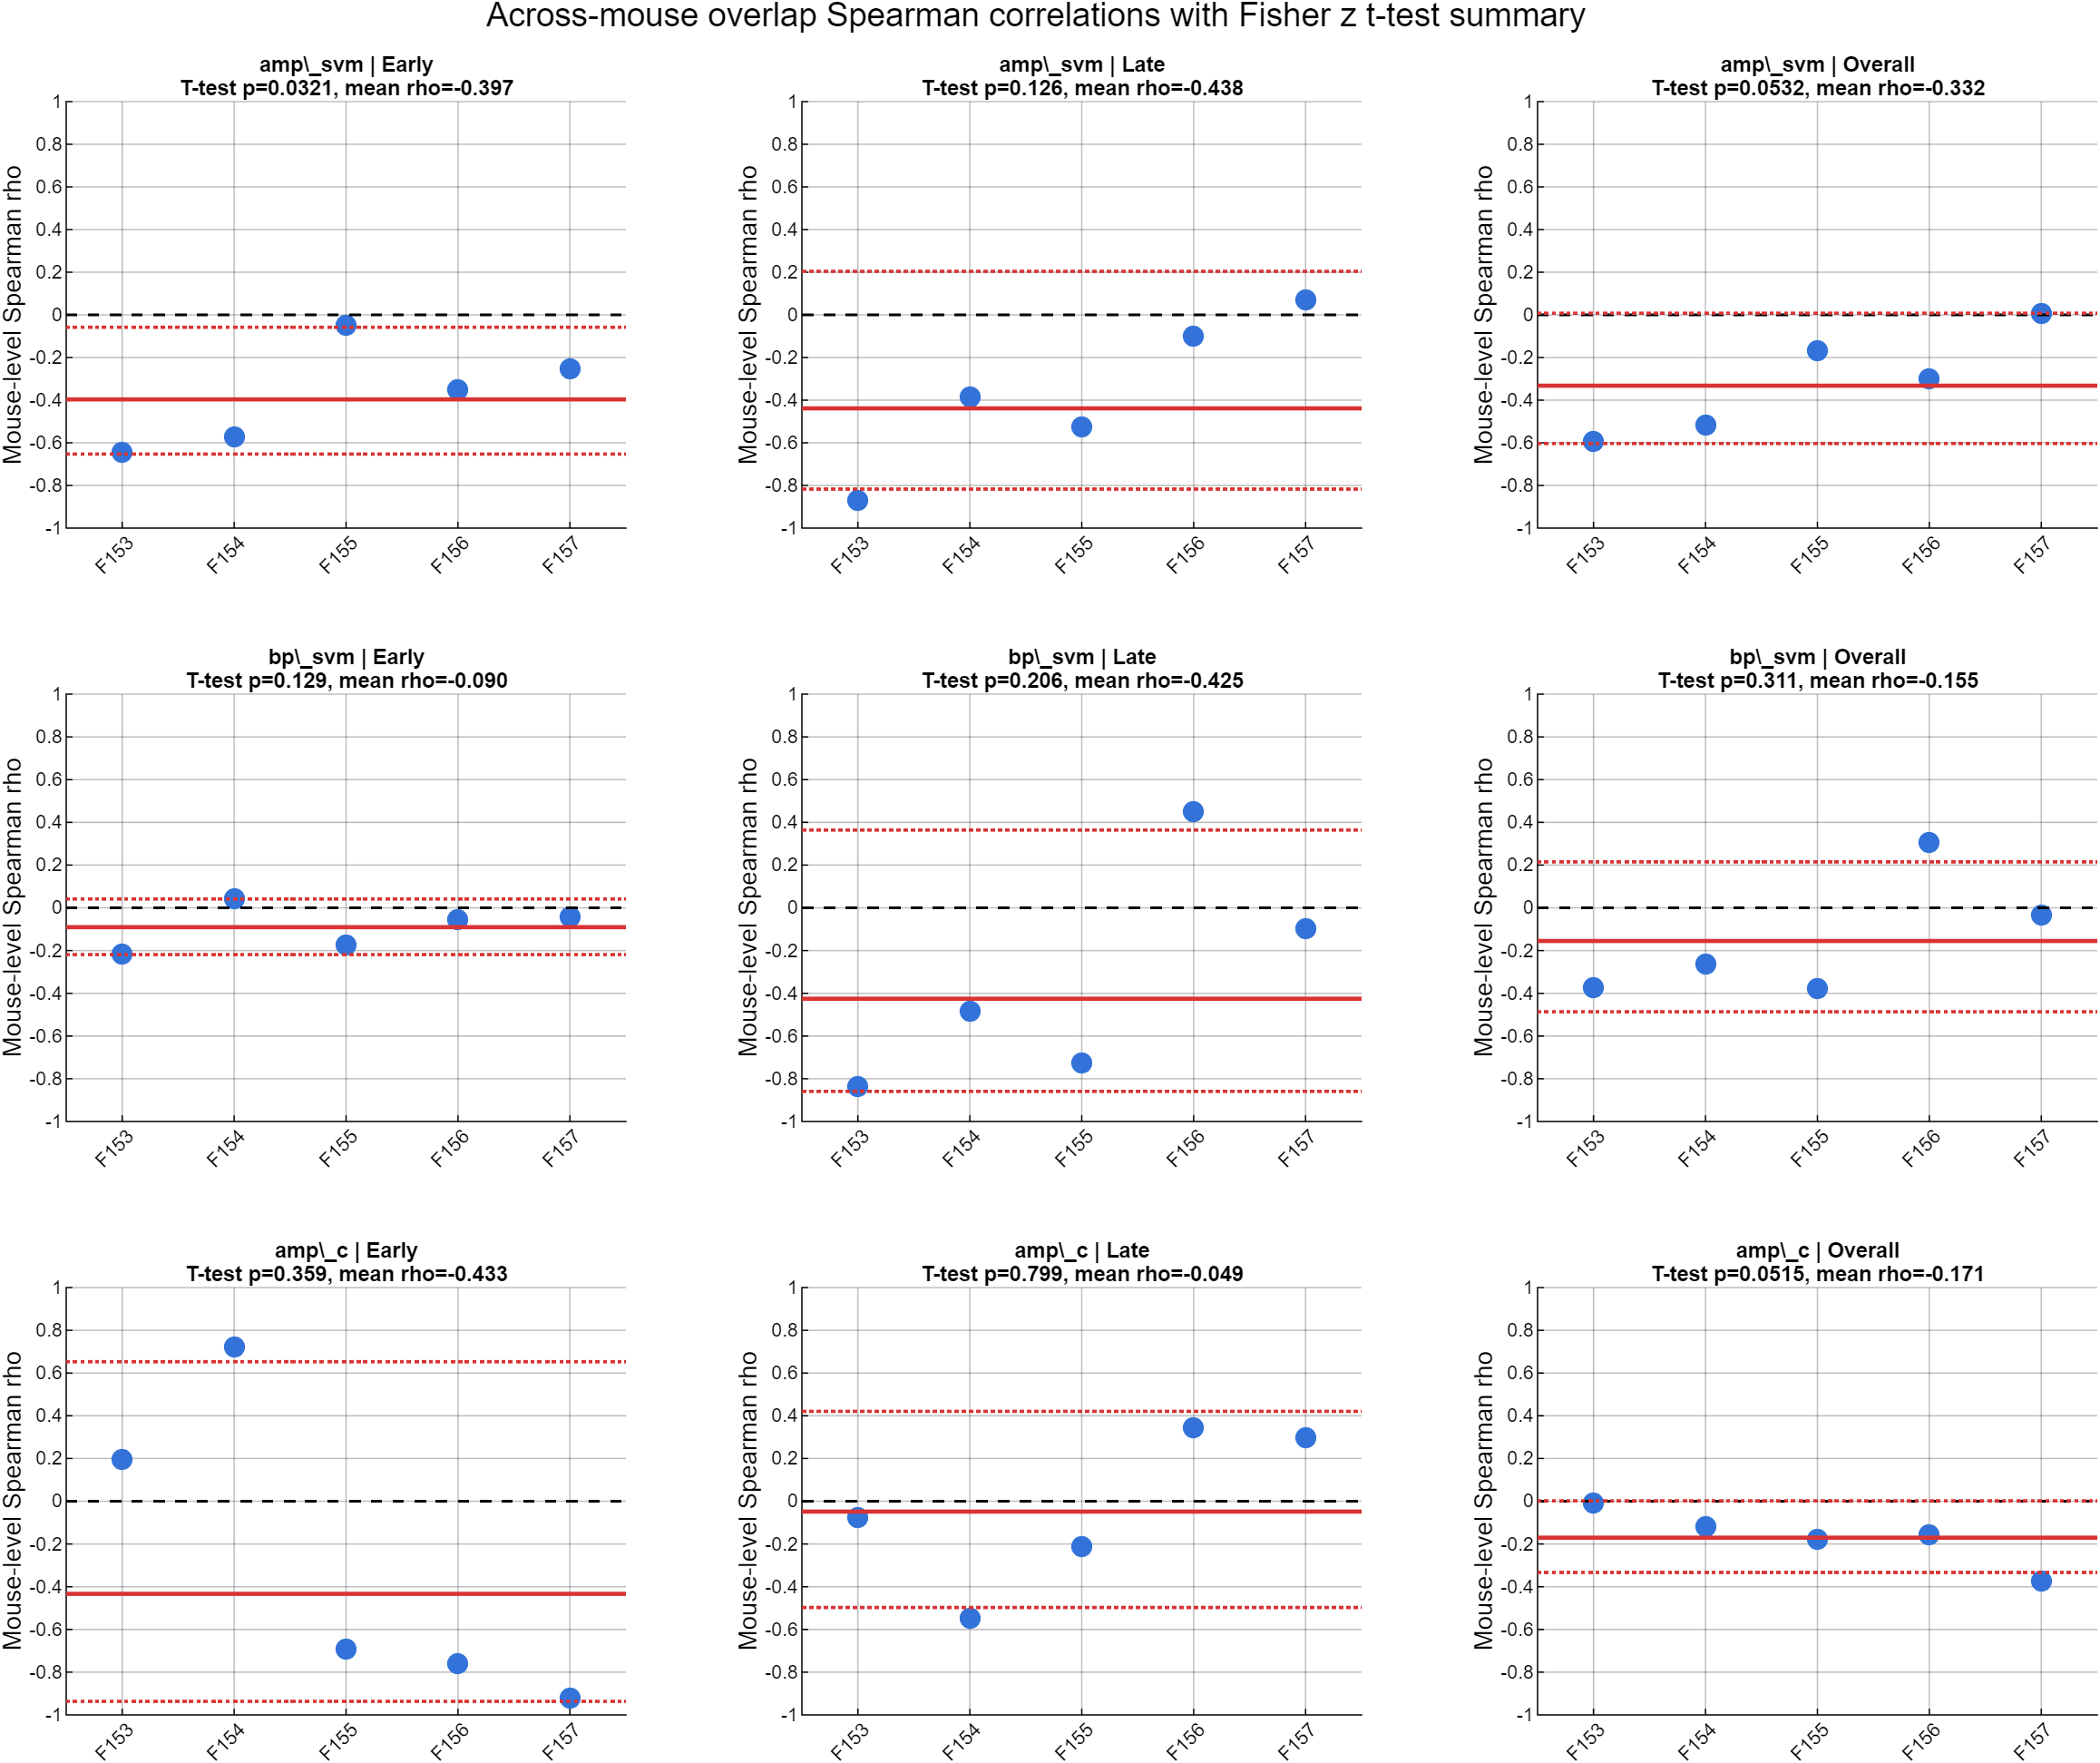
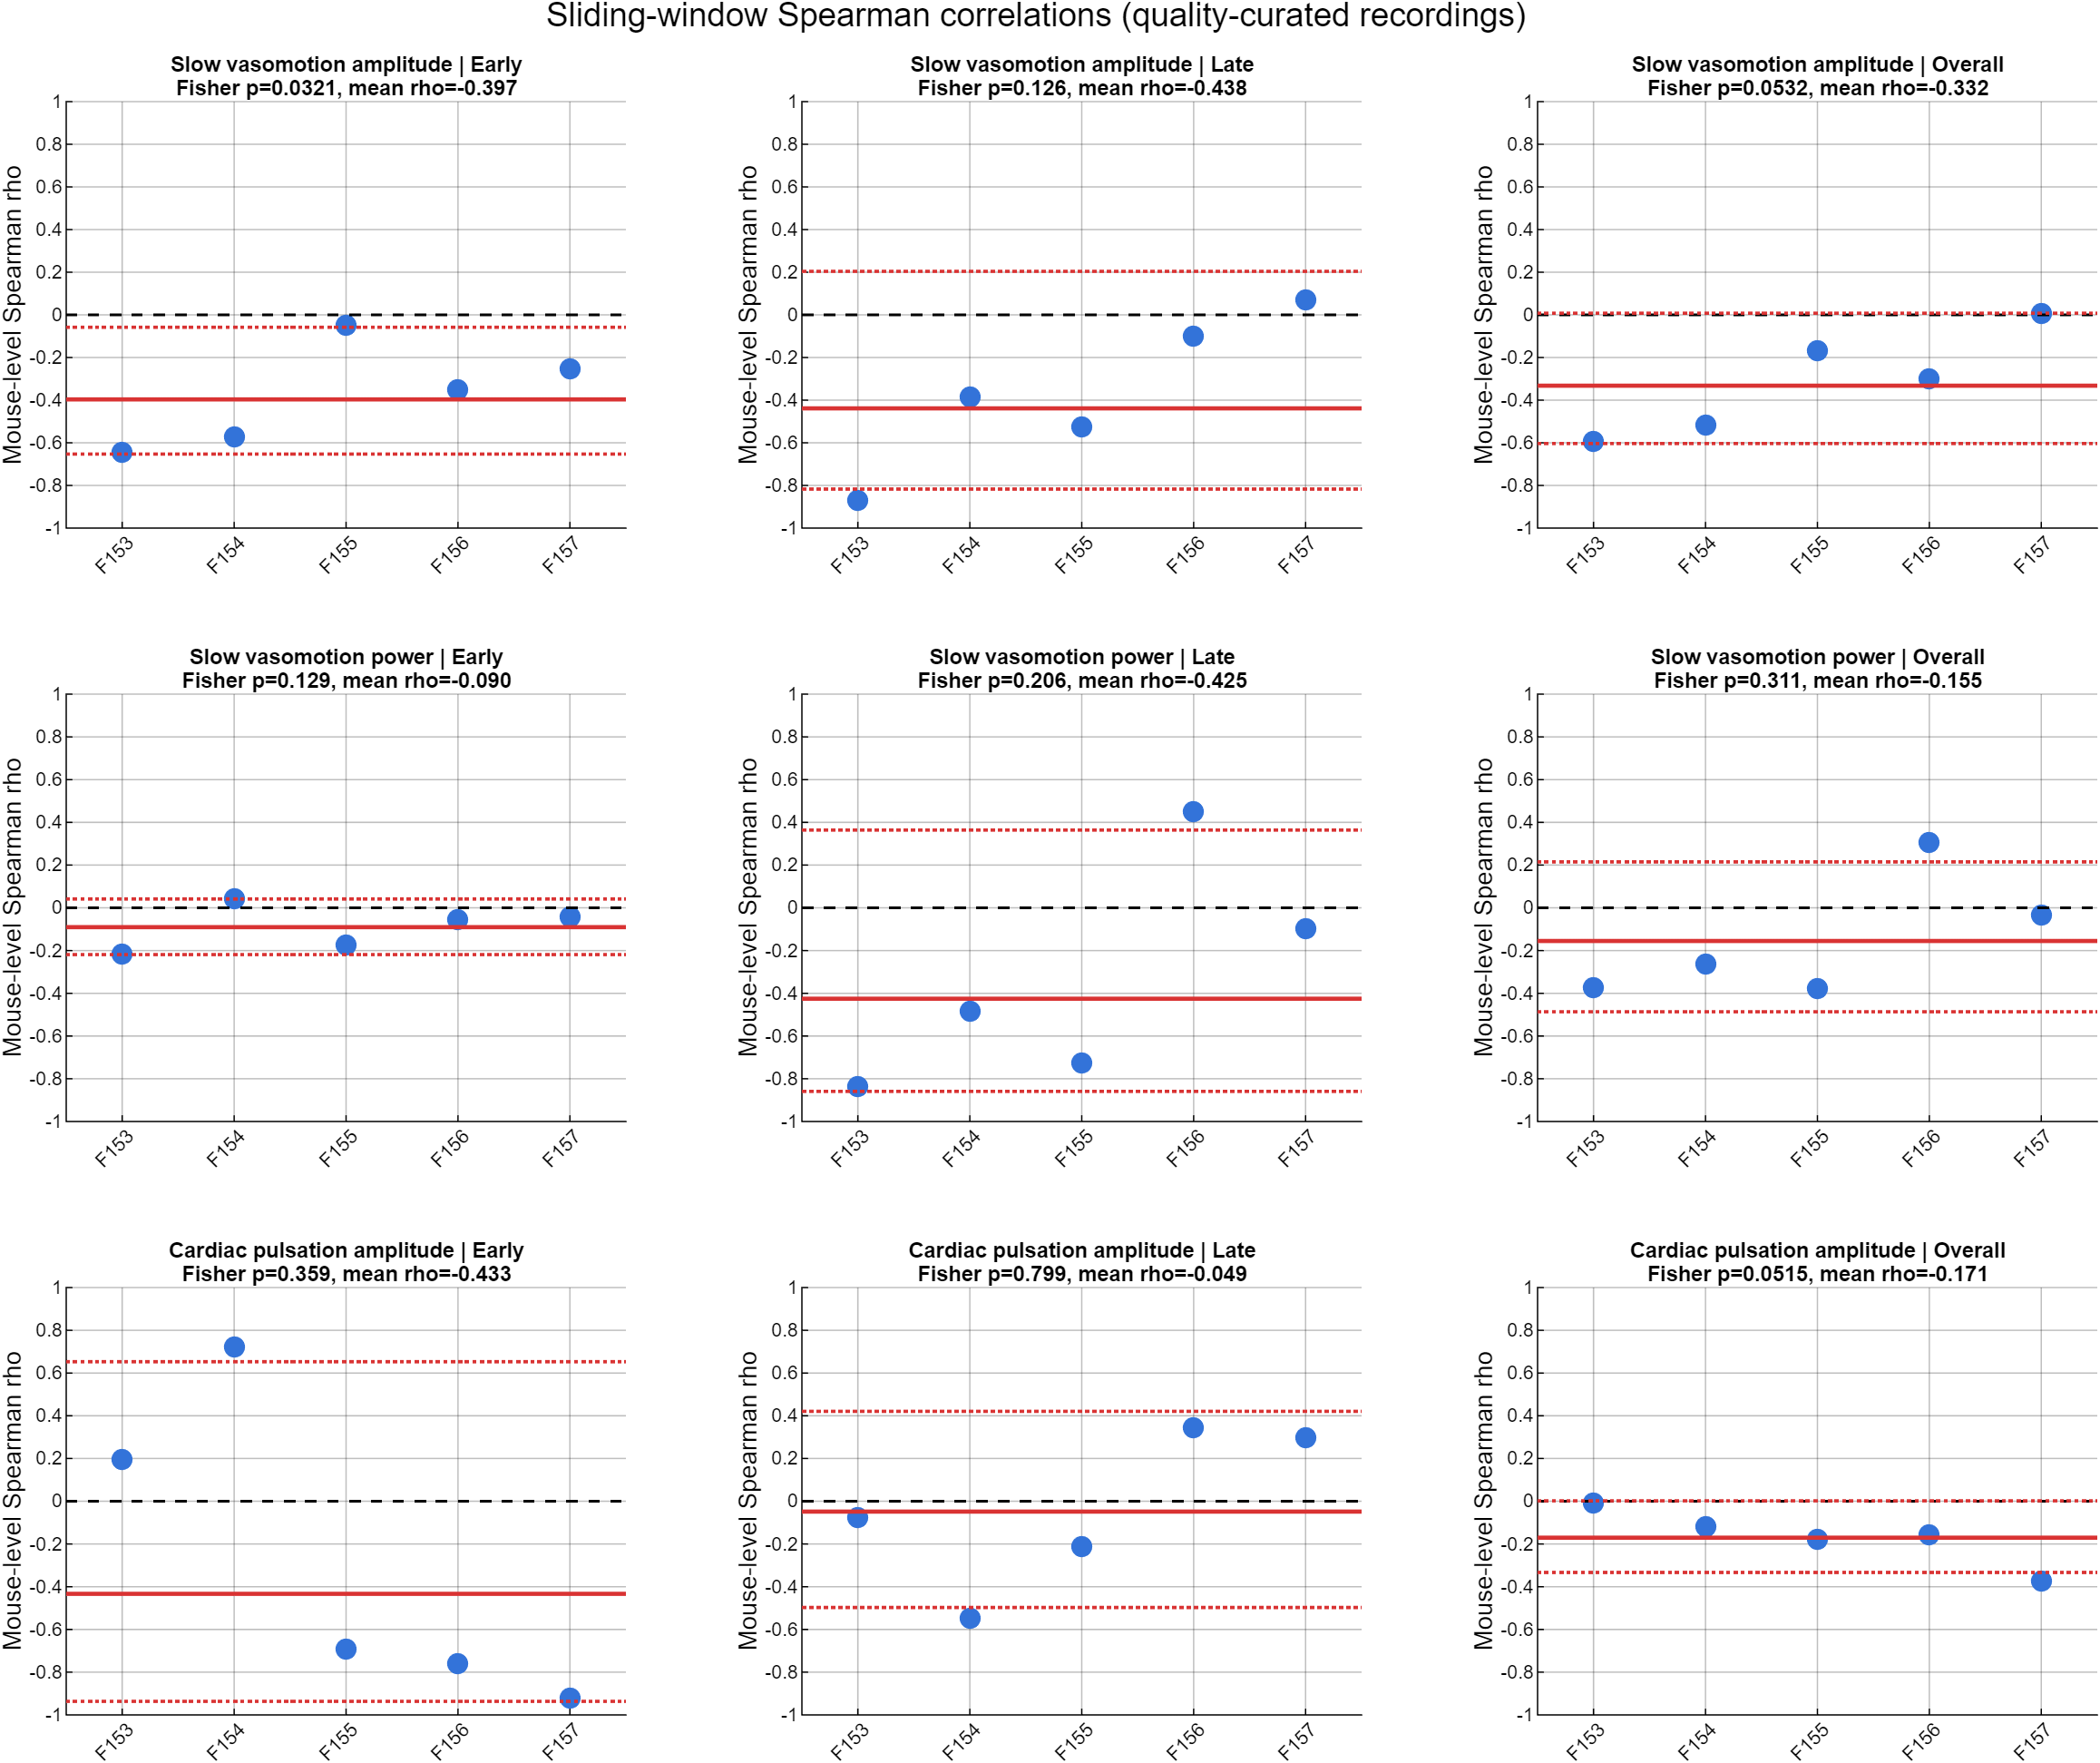
Add all-recording correlation sensitivity write-up
- Add the broader sliding-window sensitivity result and figure.\n- Clarify figure-adjacent interpretation and simplify group-test prose.

diff --git a/spearman_correlation_overlap/plot_hr_diam_corr_spearman_overlap_ttest_summary.m b/spearman_correlation_overlap/plot_hr_diam_corr_spearman_overlap_ttest_summary.m
@@ -1,7 +1,23 @@
 %% Plot Fisher z t-test summaries for overlap Spearman correlations
 
 project_root = fileparts(fileparts(mfilename('fullpath')));
-output_folder = fullfile(project_root, 'spearman_correlation_overlap');
+if ~exist('overlap_analysis_mode', 'var')
+    overlap_analysis_mode = "curated";
+else
+    overlap_analysis_mode = string(overlap_analysis_mode);
+end
+
+switch overlap_analysis_mode
+    case "curated"
+        output_folder = fullfile(project_root, 'spearman_correlation_overlap');
+        analysis_label = "quality-curated recordings";
+    case "all_subjects"
+        output_folder = fullfile(project_root, 'spearman_correlation_overlap_all_subjects');
+        analysis_label = "all recordings";
+    otherwise
+        error('Unknown overlap_analysis_mode: %s', overlap_analysis_mode);
+end
+
 fig_folder = fullfile(output_folder, 'figures', 'ttest_summary');
 if ~exist(fig_folder, 'dir')
     mkdir(fig_folder);
@@ -60,7 +76,7 @@ for v = 1:numel(vessel_vars)
             plot([0.5, numel(r_values) + 0.5], [ci_high ci_high], ':', ...
                 'Color', [0.85 0.20 0.20], 'LineWidth', 1.2);
 
-            title_handle = title(sprintf('%s | %s\nT-test p=%.3g, mean rho=%.3f', ...
+            title_handle = title(sprintf('%s | %s\nFisher p=%.3g, mean rho=%.3f', ...
                 vessel_label(vessel_var), window_name, p_t, mean_r), ...
                 'Interpreter', 'none', 'FontSize', 10);
         else
@@ -84,7 +100,7 @@ for v = 1:numel(vessel_vars)
     end
 end
 
-title_handle = sgtitle('Across-mouse overlap Spearman correlations with Fisher z t-test summary', ...
+title_handle = sgtitle(sprintf('Sliding-window Spearman correlations (%s)', analysis_label), ...
     'Interpreter', 'none', 'FontSize', 12);
 title_handle.Color = 'k';
 
@@ -97,11 +113,11 @@ fprintf('Saved %s\n', out_file);
 function label = vessel_label(vessel_var)
     switch string(vessel_var)
         case "amp_svm"
-            label = "amp\_svm";
+            label = "Slow vasomotion amplitude";
         case "bp_svm"
-            label = "bp\_svm";
+            label = "Slow vasomotion power";
         case "amp_c"
-            label = "amp\_c";
+            label = "Cardiac pulsation amplitude";
         otherwise
             label = char(string(vessel_var));
     end

diff --git a/spearman_correlation_overlap/compute_hr_diam_corr_spearman_overlap.m b/spearman_correlation_overlap/compute_hr_diam_corr_spearman_overlap.m
@@ -2,7 +2,23 @@
 
 project_root = fileparts(fileparts(mfilename('fullpath')));
 data_folder = fullfile(project_root, 'data');
-output_folder = fullfile(project_root, 'spearman_correlation_overlap');
+if ~exist('overlap_analysis_mode', 'var')
+    overlap_analysis_mode = "curated";
+else
+    overlap_analysis_mode = string(overlap_analysis_mode);
+end
+
+switch overlap_analysis_mode
+    case "curated"
+        output_folder = fullfile(project_root, 'spearman_correlation_overlap');
+        manual_excluded_mouse_ids = ["F168", "F169", "M163", "M166", "M167"];
+    case "all_subjects"
+        output_folder = fullfile(project_root, 'spearman_correlation_overlap_all_subjects');
+        manual_excluded_mouse_ids = strings(0, 1);
+    otherwise
+        error('Unknown overlap_analysis_mode: %s', overlap_analysis_mode);
+end
+
 if ~exist(output_folder, 'dir')
     mkdir(output_folder);
 end
@@ -12,7 +28,6 @@ vessel_vars = ["amp_svm", "bp_svm", "amp_c"];
 window_names = ["Early", "Late", "Overall"];
 cutoff_min = 60;
 hr_nan_exclusion_threshold = 0.50;
-manual_excluded_mouse_ids = ["F168", "F169", "M163", "M166", "M167"];
 
 excel_file = fullfile(output_folder, 'hr_amp_corr_overlap_spearman_results.xlsx');
 by_mouse_csv = fullfile(output_folder, 'hr_amp_corr_overlap_spearman_by_mouse.csv');

diff --git a/spearman_correlation_overlap/compute_hr_diam_corr_spearman_overlap_ttest.m b/spearman_correlation_overlap/compute_hr_diam_corr_spearman_overlap_ttest.m
@@ -1,7 +1,21 @@
 %% Run Fisher z one-sample t-tests on overlap Spearman correlations
 
 project_root = fileparts(fileparts(mfilename('fullpath')));
-output_folder = fullfile(project_root, 'spearman_correlation_overlap');
+if ~exist('overlap_analysis_mode', 'var')
+    overlap_analysis_mode = "curated";
+else
+    overlap_analysis_mode = string(overlap_analysis_mode);
+end
+
+switch overlap_analysis_mode
+    case "curated"
+        output_folder = fullfile(project_root, 'spearman_correlation_overlap');
+    case "all_subjects"
+        output_folder = fullfile(project_root, 'spearman_correlation_overlap_all_subjects');
+    otherwise
+        error('Unknown overlap_analysis_mode: %s', overlap_analysis_mode);
+end
+
 by_mouse_csv = fullfile(output_folder, 'hr_amp_corr_overlap_spearman_by_mouse.csv');
 excel_file = fullfile(output_folder, 'hr_amp_corr_overlap_spearman_results.xlsx');
 ttest_csv = fullfile(output_folder, 'hr_amp_corr_overlap_spearman_ttest_summary.csv');

diff --git a/correlation_analysis_writeup.md b/correlation_analysis_writeup.md
@@ -8,19 +8,27 @@ The aim of the analysis was to determine whether changes in heart rate were asso
 
 ### Analysis
 
-The primary analysis used quality-filtered one-minute ECG heart rate values paired with overlapping ten-minute vessel windows advanced in one-minute steps. Within each recording, Spearman correlations were calculated separately between heart rate and each vessel feature during the early period (before 60 minutes), late period (60 minutes or later), and full recording. The resulting correlation coefficients were summarized across mice, with the mouse retained as the unit of replication.
+The primary analysis used quality-filtered one-minute ECG heart rate values paired with overlapping ten-minute vessel windows advanced in one-minute steps. Within each recording, Spearman correlations were calculated separately between heart rate and each vessel feature during the early period (before 60 minutes), late period (60 minutes or later), and full recording. The resulting correlation coefficients were summarized across mice, with the mouse retained as the unit of replication. The same analysis was also repeated without excluding recordings solely because the heart rate estimates disagreed with one another, while still requiring adequate coverage from the quality-filtered ECG heart rate series.
 
 Heart rate was computed from an ECG-processing pipeline in which a machine-learning model identified R peaks and assigned each peak a confidence value between 0 and 1. We evaluated two methods for post-processing the same R peaks and confidence values. These methods differed in time-bin duration and in how low-quality periods or recordings were handled, but they were not independent measurements. A third estimate obtained from the cardiac-frequency peak in the vessel diameter spectrum provided a cross-modal comparison.
 
 ### Results
 
-The sliding-window Spearman analysis produced an exploratory negative association between heart rate and slow vasomotion amplitude: mice generally tended to show smaller slow vessel oscillations when heart rate was higher. In the curated five-mouse cohort, the Fisher-transformed group test reached nominal significance during the early period (mean correlation approximately -0.40, p=0.032), while the overall result approached but did not reach the conventional threshold (mean correlation approximately -0.33, p=0.053). The corresponding Wilcoxon tests did not reach p<0.05. Slow vasomotion power and cardiac-frequency pulsation amplitude did not show stable group-level relationships with heart rate. Thus, the negative relationship with slow vasomotion amplitude should be treated as an exploratory signal rather than a definitive group effect.
+The sliding-window Spearman analysis produced an exploratory negative association between heart rate and slow vasomotion amplitude: mice generally tended to show smaller slow vessel oscillations when heart rate was higher. In the quality-curated five-recording cohort, the Fisher-transformed group test reached nominal significance during the early period (mean correlation approximately -0.40, p=0.032), while the overall result approached but did not reach the conventional threshold (mean correlation approximately -0.33, p=0.053). Slow vasomotion power and cardiac-frequency pulsation amplitude did not show stable group-level relationships with heart rate.
+
+Because this primary plot uses the recordings with the clearest agreement among heart rate estimates, it should be interpreted as a quality-curated result rather than the only view of the data. In addition, the probability values were not adjusted across the three vessel features and three recording periods. For these reasons, the negative relationship with slow vasomotion amplitude should remain explicitly labeled as exploratory.
 
 The three heart rate representations generally followed similar temporal patterns. In particular, the two ECG summaries agreed strongly despite their different binning and quality-handling rules, and both showed broad agreement with the vessel-derived cardiac frequency. These comparisons support the technical reliability of the heart rate measurement, but they do not by themselves demonstrate biological coupling between heart rate and vessel dynamics.
 
 **Figure 1. Primary sliding-window group summary.** Each point represents one mouse's Spearman correlation. Solid red lines show the Fisher-transformed group mean after conversion back to correlation units, dotted red lines show the 95% confidence interval, and the dashed black line marks zero correlation.
 
 ![Across-mouse sliding-window Spearman summary](writeup_figures/sliding_spearman_group_summary.png)
+
+As a sensitivity analysis, the same sliding-window correlation was repeated without excluding recordings solely because the heart rate estimates disagreed with one another. Recordings still needed adequate coverage from the quality-filtered one-minute ECG heart rate series; three recordings were therefore still excluded because more than half of their aligned heart rate observations were missing. This broader eight-recording analysis showed the same negative direction for slow vasomotion amplitude. The early-period association remained negative and nominally significant (mean correlation approximately -0.41, p=0.0015), the late-period result remained negative but did not cross p<0.05 (mean correlation approximately -0.34, p=0.060), and the overall association crossed p<0.05 (mean correlation approximately -0.26, p=0.039). The broader analysis did not introduce a consistent group-level relationship for slow vasomotion power or cardiac-frequency pulsation amplitude.
+
+**Figure 2. Sliding-window group summary without the heart-rate-agreement exclusion.** This plot uses the same analysis and display format as Figure 1 but includes recordings that were previously removed because the heart rate estimates disagreed, provided the quality-filtered ECG heart rate series still had adequate coverage.
+
+![Across-mouse sliding-window Spearman summary without heart-rate agreement exclusion](writeup_figures/sliding_spearman_all_recordings_group_summary.png)
 
 ## Heart Rate Estimation and Quality Control
 
@@ -90,13 +98,13 @@ The analyses produced one correlation coefficient for each mouse, vessel feature
 
 The quality-filtered overlap analysis required adequate ECG coverage. Recordings with extensive missing heart rate values could not provide a stable estimate of association and were excluded when more than half of the aligned heart rate observations were unavailable.
 
-The diagnostic comparison of heart rate representations also identified recordings with substantial disagreement among the estimates. Six recordings were excluded from the final curated Spearman overlap analysis on this basis, leaving five recordings with the clearest agreement among heart rate measurements. Because this exclusion was informed by diagnostic review, the curated analysis should be presented together with the broader, less restrictive analyses as a sensitivity comparison rather than as the only view of the data.
+The diagnostic comparison of heart rate representations also identified recordings with substantial disagreement among the estimates. Six recordings were excluded from the quality-curated Spearman overlap analysis on this basis, leaving five recordings with the clearest agreement among heart rate measurements. The broader sensitivity analysis removed this diagnostic exclusion and retained recordings whenever the quality-filtered ECG heart rate series had adequate coverage.
 
 ## Group-Level Statistical Analysis
 
 The mouse, rather than the individual time window, was used as the unit of inference. Time windows within a recording are repeated and strongly overlapping observations from the same animal; pooling them across animals would therefore overstate the effective sample size.
 
-For each vessel feature and recording period, the distribution of mouse-level correlation coefficients was evaluated in two complementary ways. A Wilcoxon signed-rank test assessed whether the median correlation across mice differed from zero without assuming a normally distributed set of coefficients. A one-sample test was also performed after applying the Fisher transformation to the correlation coefficients. The transformed values were tested against zero, and the group mean and confidence interval were converted back to the correlation scale for presentation.
+For each vessel feature and recording period, the distribution of mouse-level correlation coefficients was evaluated after applying the Fisher transformation to the correlation coefficients. The transformed values were tested against zero, and the group mean and confidence interval were converted back to the correlation scale for presentation.
 
 Group summary plots show one point per mouse, a group mean correlation, a 95% confidence interval, and a reference line at zero. This format displays both the average direction of the association and the degree of consistency or heterogeneity across animals.
 
@@ -106,7 +114,7 @@ The current analyses tested several vessel features across early, late, and over
 
 An earlier analysis used non-overlapping ten-minute bins and the older ten-minute ECG heart rate estimate. This analysis was not directly equivalent to the primary sliding-window analysis because it used a different heart rate summary, a larger cohort, and substantially fewer observations per recording.
 
-Nevertheless, its broad conclusion was similar. None of the three vessel features showed a statistically significant group-level Spearman correlation with heart rate during the early, late, or overall period. The closest result was a negative late-period association between heart rate and slow vasomotion amplitude (mean correlation approximately -0.32; Fisher-transformed group test p=0.064; Wilcoxon p=0.064). This is directionally consistent with the negative slow-vasomotion-amplitude relationship observed in the sliding analysis, but it did not cross the conventional significance threshold. The other vessel features showed no stable association in either analysis.
+Nevertheless, its broad conclusion was similar. None of the three vessel features showed a statistically significant group-level Spearman correlation with heart rate during the early, late, or overall period. The closest result was a negative late-period association between heart rate and slow vasomotion amplitude (mean correlation approximately -0.32; Fisher-transformed group test p=0.064). This is directionally consistent with the negative slow-vasomotion-amplitude relationship observed in the sliding analysis, but it did not cross the conventional significance threshold. The other vessel features showed no stable association in either analysis.
 
 ## Supplementary Figures
 
@@ -118,8 +126,3 @@ Nevertheless, its broad conclusion was similar. None of the three vessel feature
 
 ![Across-mouse non-sliding Spearman summary](writeup_figures/non_sliding_legacy_spearman_group_summary.png)
 
-## Scope and Interpretation
-
-This write-up presents the current sliding-window implementation: quality-filtered one-minute ECG heart rate at each window start, overlapping ten-minute vessel windows advanced in one-minute steps, and Spearman correlation. Alternative temporal matching and Pearson correlation are outside the present scope.
-
-The displayed group analysis contains the five recordings with the clearest agreement among heart rate estimates. The findings therefore describe this quality-curated subgroup rather than the full set of dex40 recordings. In addition, probability values were not adjusted across the three vessel features and three recording periods. For these reasons, the negative relationship between heart rate and slow vasomotion amplitude should remain explicitly labeled as exploratory.

diff --git a/Work_Log.md b/Work_Log.md
@@ -2,6 +2,16 @@
 
 ## 2026-06-23
 
+### All-Recording Sensitivity Write-Up
+
+- Added the sliding-window sensitivity result that removes the heart-rate-agreement exclusion while retaining the filtered-ECG coverage requirement.
+- Regenerated the quality-curated sliding summary plot with descriptive vessel-feature labels and added the broader sensitivity summary plot for the write-up.
+- Moved interpretation notes into the Results text next to the figures they qualify and removed Wilcoxon reporting from the manuscript prose.
+- Model: Codex, GPT-5.
+- Effort: standard interactive editing.
+- Token budget: not specified.
+- Verification: ran MATLAB batch generation for the curated and all-recording overlap Spearman summaries and visually inspected both updated write-up figures.
+
 ### Figure Hierarchy Revision
 
 - Moved the across-mouse sliding-window Spearman summary into the Results section as the sole main figure.